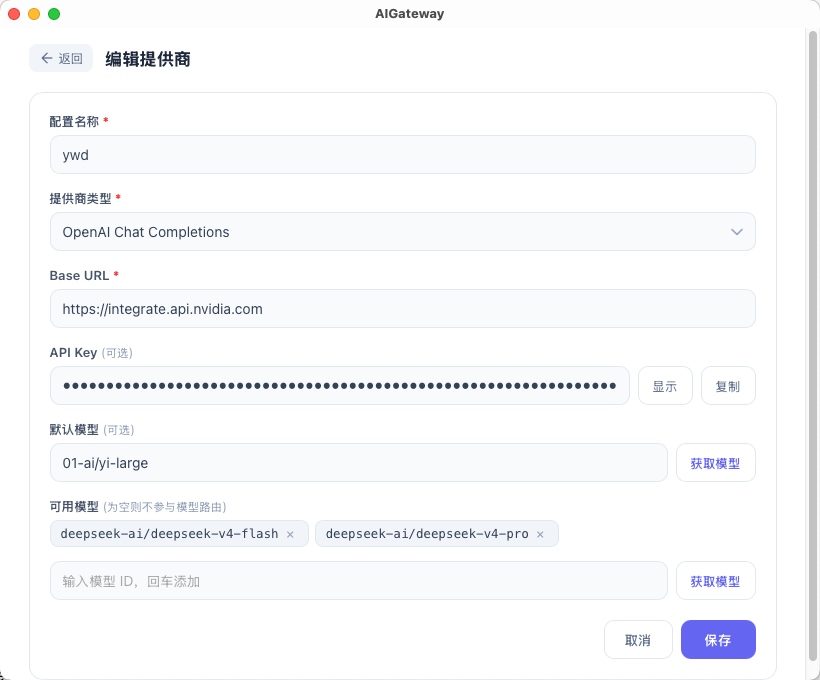
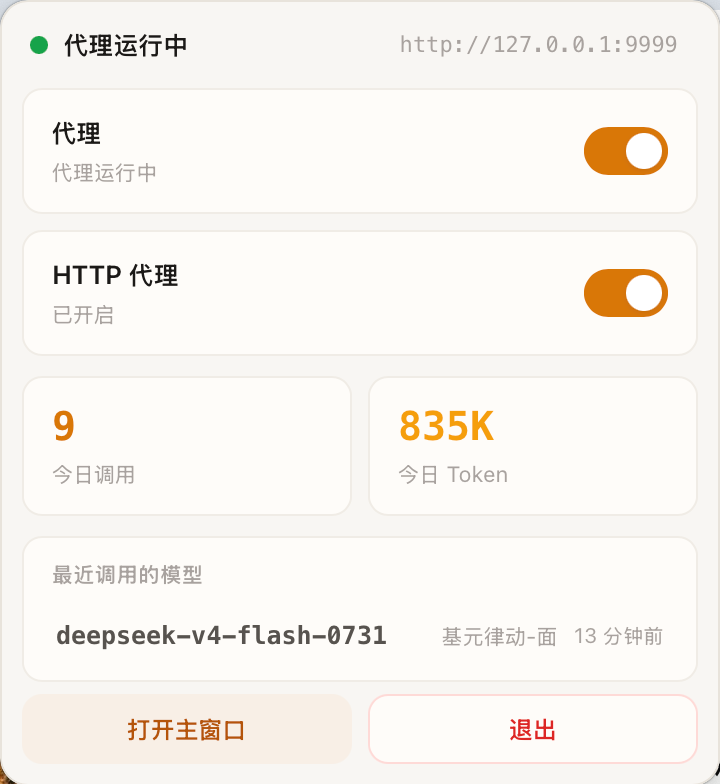
docs: 更新 README 截图并同步英文版

diff --git a/README_EN.md b/README_EN.md
@@ -83,7 +83,6 @@ After adding available models, the home page displays all currently available mo
 Enable the config, click "Start" proxy. Then point your tools to `http://127.0.0.1:9999`.
 
 ![2.png](images/2.png)
-![1.png](images/1.png)
 
 ### 2⃣ Use with Codex CLI or Desktop
 
@@ -129,6 +128,7 @@ Supported proxy endpoints (`/v1` prefix optional, both `/chat/completions` and `
 ### 📠 System Tray
 
 Closing the window minimizes the app to the system tray. Right-click the tray icon to quickly start/stop the proxy or quit the app.
+![1.png](images/1.png)
 
 ## 📊 Logs & Statistics
 
@@ -138,7 +138,7 @@ The Settings page provides multi-dimensional request statistics and log viewing.
 
 The top section shows three core metrics: **Total Requests**, **Token Consumption** (Prompt / Completion breakdown), **Daily Average Requests**.
 
-![3.png](images/3.png)
+![6.png](images/6.png)
 
 ### Trend Analysis
 
@@ -162,6 +162,8 @@ The log page records every proxy request, supporting:
 - Requests through HTTP proxy show a blue `PROXY` badge
 - Requests with model mapping show `original_model → mapped_model | provider`
 - **404 (route not matched) requests** additionally record: HTTP method, the `model` extracted from the request body, and full request/response bodies (without enabling debug logging), making it easier to diagnose clients hitting wrong endpoints or sending malformed payloads
+
+![7.png](images/7.png)
 
 ### Debug Logging
 

diff --git a/README.md b/README.md
@@ -84,7 +84,7 @@ sudo xattr -r -d com.apple.quarantine /Applications/AIGateway.app
 勾选启用，点击「启动」代理。然后把你的工具指向 `http://127.0.0.1:9999` 即可。
 
 ![2.png](images/2.png)
-![1.png](images/1.png)
+
 ### 2⃣ 在 Codex CLI或桌面端 中使用
 
 [Codex CLI](https://github.com/openai/codex) 原生支持 OpenAI API，只需设置环境变量指向 AIGateway 代理地址
@@ -129,6 +129,7 @@ wire_api = "responses"
 ### 📎 系统托盘
 
 关闭窗口时应用最小化到系统托盘。右键托盘图标可以快速启动/停止代理或退出应用。
+![1.png](images/1.png)
 
 ## 📊 日志与统计
 
@@ -138,7 +139,7 @@ wire_api = "responses"
 
 顶部展示三个核心指标：**总请求数**、**Token 消耗**（Prompt / Completion 明细）、**日均请求**。
 
-![3.png](images/3.png)
+![6.png](images/6.png)
 
 ### 趋势分析
 
@@ -162,6 +163,8 @@ wire_api = "responses"
 - 通过代理发出的请求会显示蓝色 `PROXY` 标签
 - 经过模型映射的请求会显示 `原始模型 → 映射后模型 | 提供商`
 - **404 路由未匹配请求**会额外记录：HTTP 方法、从请求体提取的 model、完整的请求/响应体（无需开启调试日志），便于排查客户端发错地址或参数
+
+![7.png](images/7.png)
 
 ### 调试日志
 
